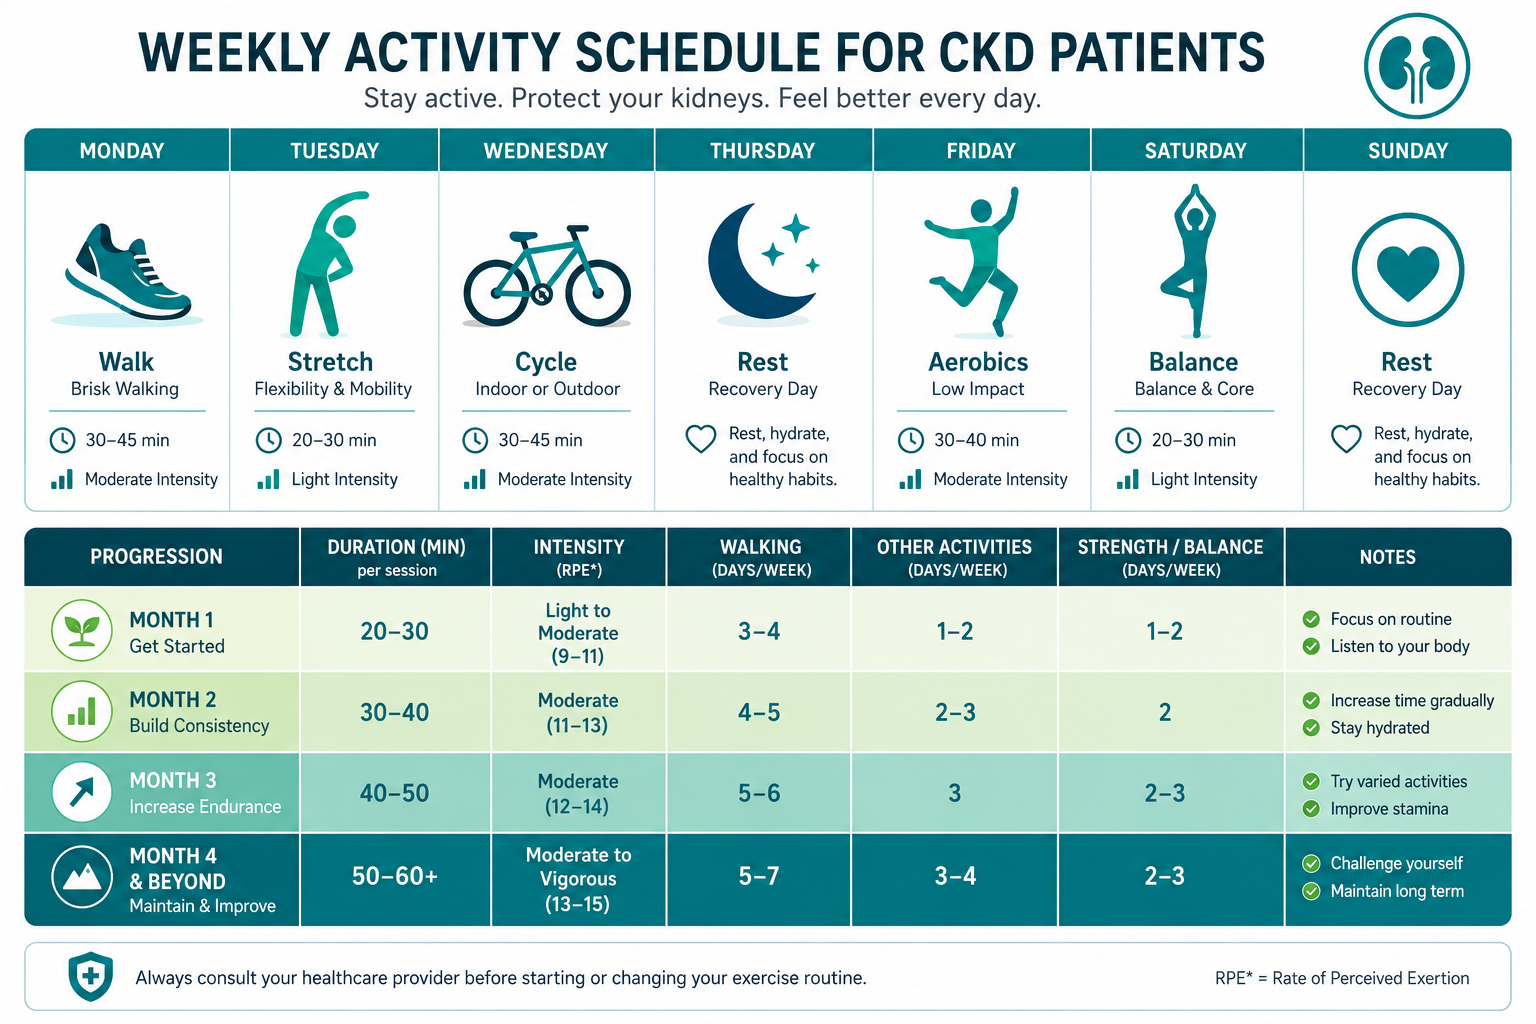
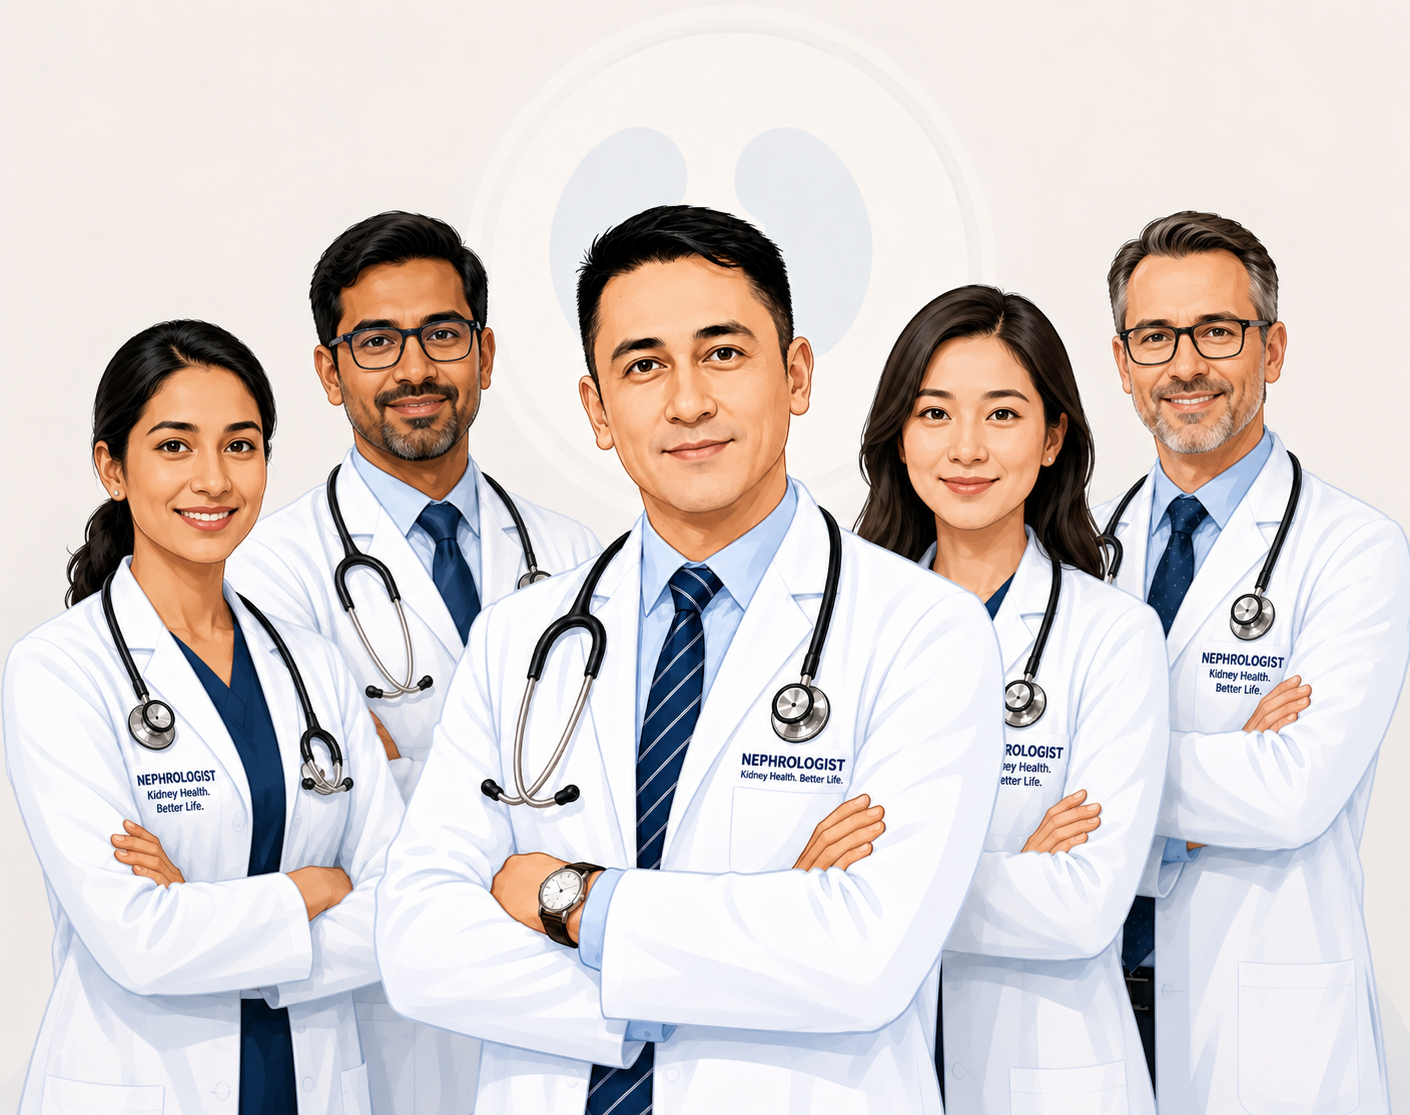
Replace solo nephrologist with group photo in exercise guide
Swapped exercise-ckd-doctor-profile with a group illustration of
five nephrologists (diverse team, white coats, kidney health background).
Updated alt text to match.

diff --git a/guides/exercise-guide-ckd.html b/guides/exercise-guide-ckd.html
@@ -1310,7 +1310,7 @@ body.dark .related-card-title {
       </div>
     </div>
 
-    <figure style="margin:24px 0;"><picture><source srcset="../images/exercise-ckd-doctor-profile.webp" type="image/webp"><img src="../images/exercise-ckd-doctor-profile.png" alt="Professional editorial portrait illustration of a male nephrologist in a white coat with stethoscope — confident and approachable expression, warm studio lighting, medical office background" style="width:100%;border-radius:10px;display:block;"></picture><figcaption style="font-size:0.82rem;color:var(--text-muted);margin-top:8px;text-align:center;">Your nephrologist is your partner in designing a safe exercise program. Share this guide at your next clinic visit and ask for a personalized exercise prescription based on your current CKD stage and comorbidities.</figcaption></figure>
+    <figure style="margin:24px 0;"><picture><source srcset="../images/exercise-ckd-doctor-profile.webp" type="image/webp"><img src="../images/exercise-ckd-doctor-profile.png" alt="Five nephrologists in white coats with stethoscopes standing together confidently — diverse medical team with arms crossed, kidney health illustration in background, Nephrologist Kidney Health Better Life labels on coats" style="width:100%;border-radius:10px;display:block;"></picture><figcaption style="font-size:0.82rem;color:var(--text-muted);margin-top:8px;text-align:center;">Your nephrologist is your partner in designing a safe exercise program. Share this guide at your next clinic visit and ask for a personalized exercise prescription based on your current CKD stage and comorbidities.</figcaption></figure>
 
     <div class="disclaimer"><strong><span data-lang="en">Important</span><span data-lang="tl" class="lang-hidden">Mahalagang Paalala</span><span data-lang="ceb" class="lang-hidden">Importante nga Pahibalo</span>:</strong> Always consult your nephrologist before starting a new exercise program, particularly if you have recent cardiovascular events, severe anemia (Hgb &lt;80 g/L), uncontrolled blood pressure, or are on peritoneal dialysis. This guide is intended as general guidance and does not replace individualized medical advice. Exercise progression should be reviewed every 3 months.</div>
 
